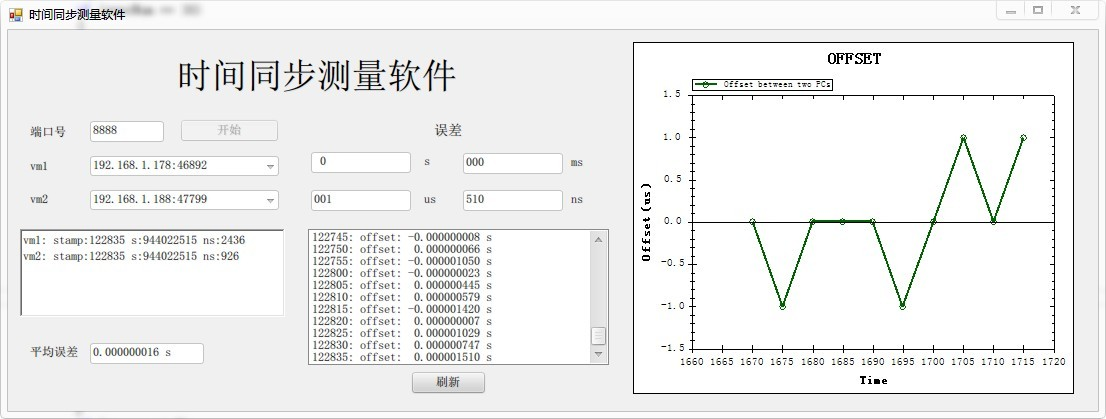
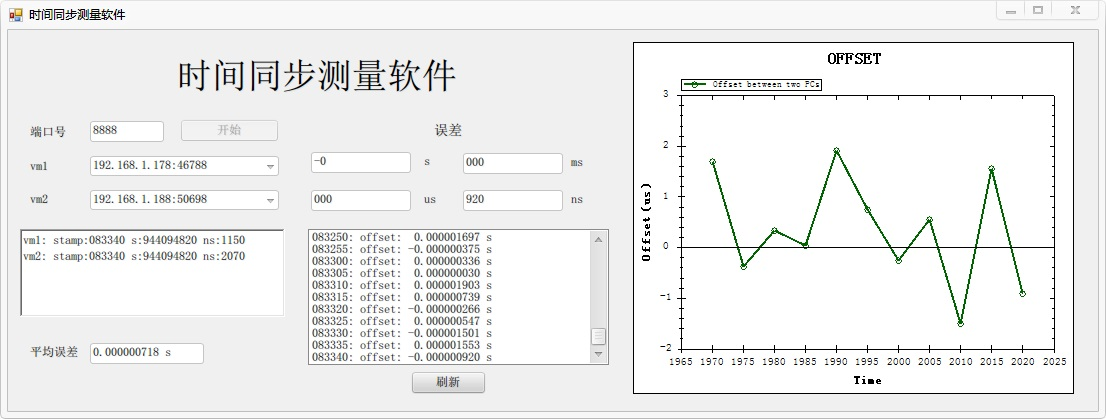
let decimal display in chart

diff --git a/SyncMeasureProject/SyncMeasureForm.cs b/SyncMeasureProject/SyncMeasureForm.cs
@@ -109,7 +109,7 @@ namespace SyncMeasureProject
                     }
                     strSec = sign + (absOffset / 1000000000).ToString();
                     strNSec = (absOffset % 1000000000).ToString("D9");
-                    pointPairList.Add((stamptosecond(timeStamp1)), offset / 1000);  // 增加数据点
+                    pointPairList.Add((stamptosecond(timeStamp1)), (double)offset / 1000);  // 增加数据点，注意需转为double，因为可能出现小数
                     this.zedGraphControl1.AxisChange();
                     this.zedGraphControl1.Invalidate();   
                     //this.zedGraphControl1.Refresh();
@@ -189,11 +189,11 @@ namespace SyncMeasureProject
         {
             long timeS;
             int timeStamp, timeNs;
-            byte[] result = new byte[1024];
+            byte[] result = new byte[128];   // 接收缓存
             PC thispc = new PC();
             connection.Add(thispc);
             Socket myClientSocket = (Socket)clientSocket;
-            thispc.PcName = myClientSocket.RemoteEndPoint.ToString();//将客户端ip地址和端口号作为名字
+            thispc.PcName = myClientSocket.RemoteEndPoint.ToString();//将客户端ip地址和端口号作为终端名
             addpcTocomboBox1(thispc.PcName);
             addpcTocomboBox2(thispc.PcName);
             while (true)

diff --git a/README.md b/README.md
@@ -1,7 +1,7 @@
 # SyncMeasureProject
 
-一个TCP服务器，用于接收多台计算机上的TCP客户端约定相同时间定时发送的TimeStamp。
-从而计算其时间误差并将其可视化。
+时间同步测量软件。开启TCP服务器，用于接收多台计算机上的TCP客户端约定相同时间定时发送的时间戳。
+从而计算其时间误差并将其可视化，该误差即为两终端时间同步的误差。
 TCP客户端见Linux程序`TimeTools/Timer/tcp_client.c`，其目录下的README.md文件有客户端程序的详细使用说明。
 
 > 环境准备
